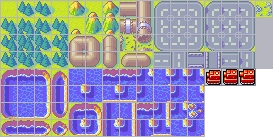
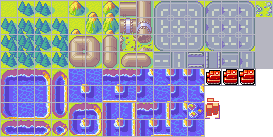
Added atlas of tank sprites

diff --git a/core/src/com/axlan/gdxtactics/screens/TiledScreen.java b/core/src/com/axlan/gdxtactics/screens/TiledScreen.java
@@ -31,14 +31,14 @@ public abstract class TiledScreen extends StageBasedScreen implements InputProce
   private OrthographicCamera camera;
   private ArrayList<TiledMapTileLayer> layers = new ArrayList<>();
   private Vector2 screenSize;
-  private Vector2 tileSize;
+  Vector2 tileSize;
   private float[] cameraBounds = new float[4];
   private Vector3 cameraPosition;
 
   /* Methods */
 
   TiledScreen(String levelTmxFilename) {
-    float cameraZoom = .25f;
+    float cameraZoom = .5f;
     this.batch = new SpriteBatch();
     map = new TmxMapLoader().load(levelTmxFilename);
 
@@ -55,8 +55,11 @@ public abstract class TiledScreen extends StageBasedScreen implements InputProce
 
     // Boundaries for the camera : left, top, right, bottom
     float horizontalMargin =
-        (screenSize.x - worldSize.x > 0) ? (screenSize.x - worldSize.x) / 2 : 0;
-    float verticalMargin = (screenSize.y - worldSize.y > 0) ? (screenSize.y - worldSize.y) / 2 : 0;
+        (screenSize.x * cameraZoom > worldSize.x) ? (screenSize.x * cameraZoom - worldSize.x) / 2
+            : 0;
+    float verticalMargin =
+        (screenSize.y * cameraZoom > worldSize.y) ? (screenSize.y * cameraZoom - worldSize.y) / 2
+            : 0;
     cameraBounds[0] = (screenSize.x / 2 - horizontalMargin) * cameraZoom;
     cameraBounds[1] = worldSize.y - screenSize.y / 2 * cameraZoom + verticalMargin;
     cameraBounds[2] = worldSize.x - screenSize.x / 2 * cameraZoom + horizontalMargin;
@@ -86,6 +89,10 @@ public abstract class TiledScreen extends StageBasedScreen implements InputProce
   public abstract void renderScreen(float delta, SpriteBatch batch);
 
   public abstract void updateScreen(float delta);
+
+  float getCameraZoom() {
+    return camera.zoom;
+  }
 
   /* Utils methods */
 

diff --git a/core/src/com/axlan/gdxtactics/screens/BattleMapView.java b/core/src/com/axlan/gdxtactics/screens/BattleMapView.java
@@ -2,8 +2,9 @@ package com.axlan.gdxtactics.screens;
 
 import com.badlogic.gdx.Gdx;
 import com.badlogic.gdx.Input;
-import com.badlogic.gdx.graphics.Texture;
+import com.badlogic.gdx.graphics.g2d.Sprite;
 import com.badlogic.gdx.graphics.g2d.SpriteBatch;
+import com.badlogic.gdx.graphics.g2d.TextureAtlas;
 import com.badlogic.gdx.math.GridPoint2;
 import com.badlogic.gdx.math.Vector2;
 import com.badlogic.gdx.scenes.scene2d.Actor;
@@ -15,12 +16,15 @@ import com.kotcrab.vis.ui.widget.VisTextButton;
  */
 public class BattleMapView extends TiledScreen {
 
-    private final Texture img;
+    private final Sprite img;
     private GridPoint2 playerPos = new GridPoint2(0, 10);
 
     public BattleMapView() {
         super("maps/advanced1.tmx");
-        img = new Texture("images/units/pika.png");
+        TextureAtlas tankAtlas = new TextureAtlas("images/units/tank.atlas");
+        //img = tankAtlas.createSprite("tank00").getTexture();
+        img = tankAtlas.createSprite("tank00");
+        img.scale(0.5f / getCameraZoom());
 
         VisTextButton test = new VisTextButton("Test");
         test.addListener(
@@ -37,8 +41,9 @@ public class BattleMapView extends TiledScreen {
     public void renderScreen(float delta, SpriteBatch batch) {
 
         Vector2 screenpos = tileToScreen(playerPos);
+        img.setPosition(screenpos.x + tileSize.x / 2, screenpos.y + tileSize.y / 2);
         batch.begin();
-        batch.draw(img, screenpos.x, screenpos.y);
+        img.draw(batch);
         batch.end();
         // this.camera.position.x = pos_row;
         // this.camera.position.y = pos_col;

diff --git a/core/src/com/axlan/gdxtactics/BattleMapDemo.java b/core/src/com/axlan/gdxtactics/BattleMapDemo.java
@@ -2,11 +2,13 @@ package com.axlan.gdxtactics;
 
 import com.axlan.gdxtactics.screens.BattleMapView;
 import com.badlogic.gdx.Game;
+import com.kotcrab.vis.ui.VisUI;
 
 public class BattleMapDemo extends Game {
 
   @Override
   public void create() {
+    VisUI.load();
     this.setScreen(new BattleMapView());
   }
 

diff --git a/DEV_JOURNAL.md b/DEV_JOURNAL.md
@@ -1,3 +1,7 @@
+# 9/21 Start Laying Out BattleMap for Game
+
+
+
 # 9/21 Clean up Scene / Screen Switching
 
 I'm not totally clear on the logical orginaztion of the objects like game / scene / screen. It seems
@@ -22,6 +26,8 @@ The first decision is what sort of geometry to use, orthogonal, isometric, or he
 I was able to get a decent initial implementation by taking https://github.com/pixdad/Tactical-Battle-System and cleaning up the interfaces a bit. 
 
 Next I started using my own advanced wars map. This led me to play with the scaling on work on the tile to pixel transforms.
+
+Turns out https://github.com/pixdad/Tactical-Battle-System was just a copy of https://www.gamefromscratch.com/post/2014/05/01/LibGDX-Tutorial-11-Tiled-Maps-Part-2-Adding-a-character-sprite.aspx
 
 # 9/20 Implementing Menus
 
